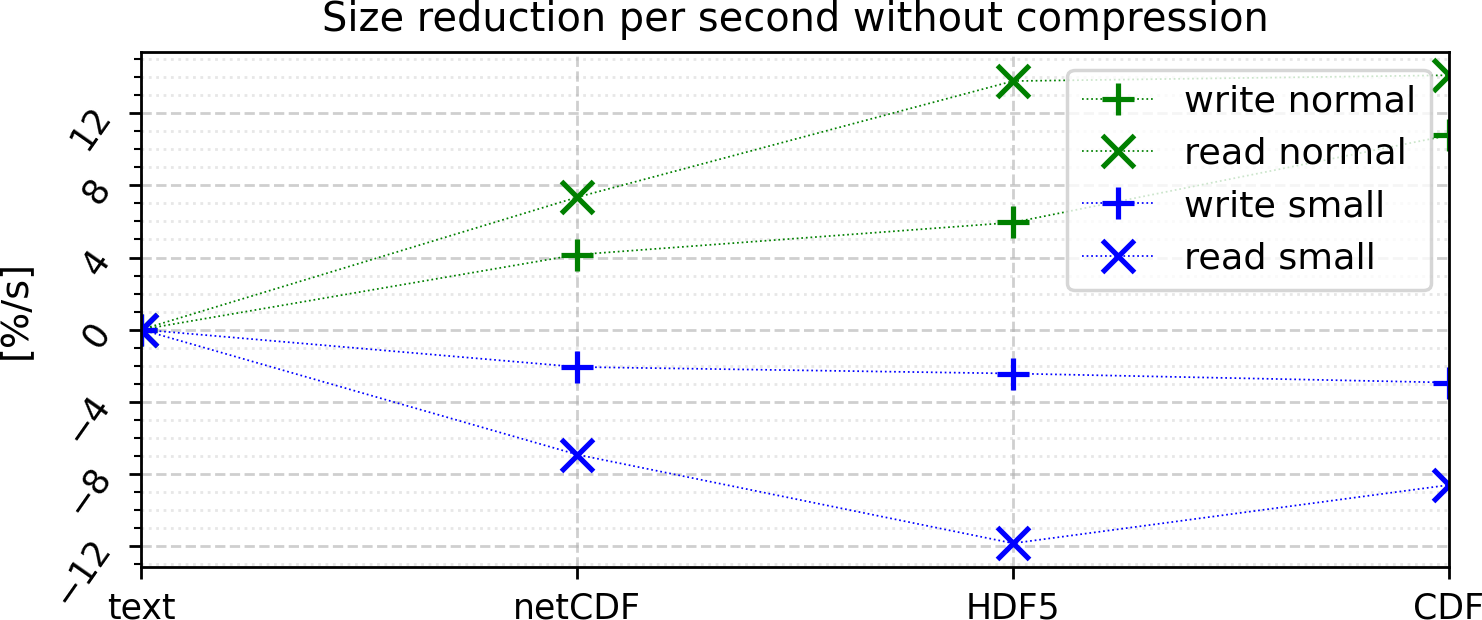
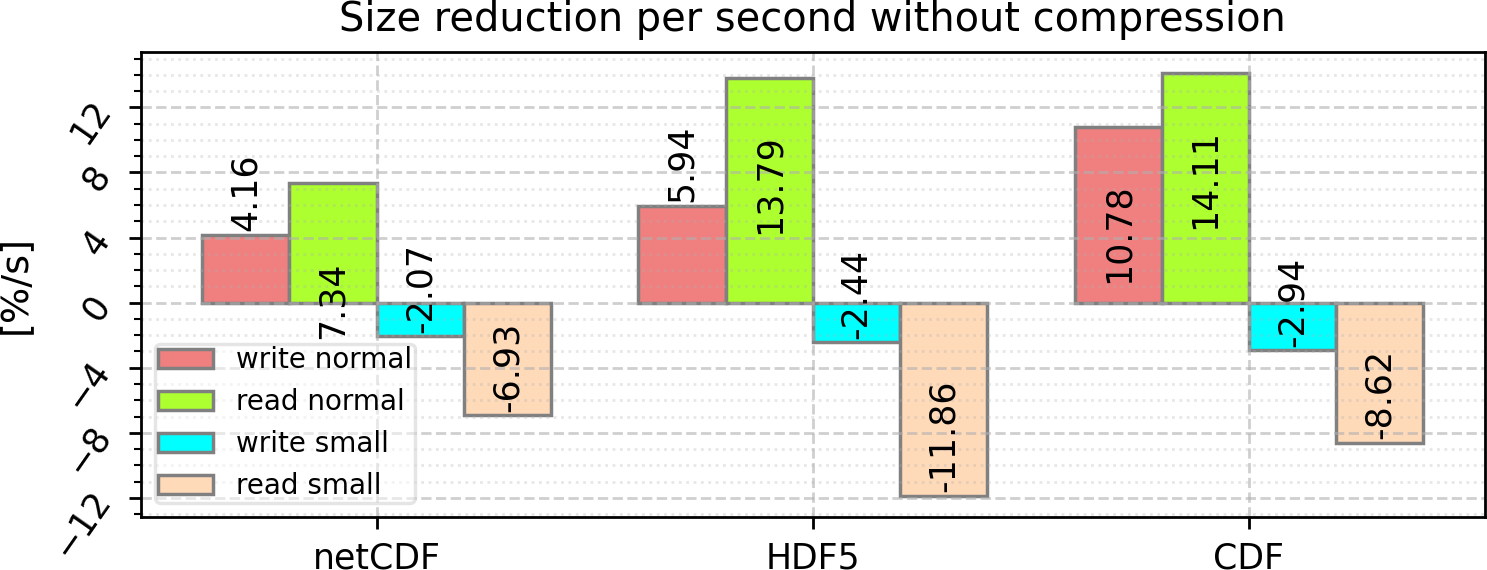
Improved graphs.

diff --git a/result_analysis/plot.py b/result_analysis/plot.py
@@ -6,26 +6,58 @@ np.set_printoptions(precision=3, suppress=True)
 #plt.rc('font', size=16)
 #plt.rc('legend', fontsize=10)
 
-colors = ['green','green','blue','blue']#['green','blue']#
+def autolabel(rects, ax, data_max):
+    """Attach a text label above each bar in *rects*, displaying its height."""
+    for rect in rects:
+        height = rect.get_height()
+        h_fmt = '{:.2f}'
+        rot = 90
+        offst = (0, 1)
+        if (height > 50):
+            h_fmt = '{:.1f}'
+
+        if (height > data_max/2):
+            offst = (0, -45)
+        ax.annotate(h_fmt.format(height),
+                    xy=(rect.get_x() + rect.get_width() / 2, height),
+                    xytext=offst,  # 3 points vertical offset
+                    textcoords="offset points",
+                    ha='center', va='bottom', fontsize=10, rotation = rot)
+
+colors = ['lightcoral','greenyellow','cyan','peachpuff']#['green','blue']#
 markers = ["+", "x"]#["+", "+", "x", "x"]#
-def plot_(labels, data, markers, colors, label_names, filename, ylabel, title, limit_y = True, figsize = [6.25,2.8], linestyle = ":"):
+def plot_(labels, data, markers, colors, label_names, filename, ylabel, title, limit_y = True, figsize = [6.25,2.6], linestyle = ":"):
     fig = plt.figure(tight_layout = True, dpi = 250, figsize=figsize)
 
 
-    print(filename)
+    x = np.arange(len(labels))
+    width = 0.2
+    print(labels, x)
+    ax = plt.gca()
+    data_max = np.nanmax(np.array(data))
+    print(data_max)
     
     for i in range(0, len(data)):
         print(label_names[i], data[i])
         #data[i] = data[i][np.logical_not(np.isnan(data[i]))]
-        plt.plot(labels, data[i], marker = markers[i%2], color=colors[i], label = label_names[i], linestyle=linestyle, markersize=9,lw=0.5,mew=1.5)
+        #plt.plot(labels, data[i], marker = markers[i%2], color=colors[i], label = label_names[i], linestyle=linestyle, markersize=9, lw=0, mew=1.5)
+        x_pos = x + width*(i) - (width*len(data))/2 + width/2 #+ (width*len(labels)) #- (width/len(data))
+        #print(x_pos)#, width*(i+1), (width*len(data))/2)
+        data[i][data[i] == 0] = np.nan
+        rects = plt.bar(x_pos, data[i], width, label = label_names[i], color=colors[i], edgecolor="gray", linewidth = 1)#,align='edge')
+        autolabel(rects, ax, data_max)
     print("-----------------------------")
-    plt.legend(fontsize=10.5)
+    plt.legend(fontsize=8, borderpad=0.1, framealpha=0.5)
     plt.ylabel(ylabel, fontsize=11)
     plt.title(title,fontsize=11.5)
-    ax = plt.gca()
     if limit_y:
         ax.set_ylim(ymin=0)
-    ax.set_xlim(xmin=0, xmax=len(labels)-1)
+    #ax.set_xlim(xmin=0, xmax=len(labels)-1)
+    #ax.set_xticklabels(labels)
+
+    ax.xaxis.set_major_locator(ticker.FixedLocator(x))
+    ax.xaxis.set_major_formatter(ticker.FixedFormatter(labels))
+    
     ax.yaxis.grid(which='minor', alpha=0.3, linestyle=':')
     ax.grid(which='major', alpha=0.6, linestyle='--')
     ax.yaxis.set_major_locator(ticker.MaxNLocator(nbins=8))
@@ -134,6 +166,8 @@ data = np.array([
     np.concatenate(((100*((-d.small_uncompressed_sz[0]+d.small_uncompressed_sz[0][0])/d.small_uncompressed_sz[0][0]))/(d.small_uncompressed_ram[1]),(100*((-d.small_compressed_sz[0]+d.small_uncompressed_sz[0][0])/d.small_uncompressed_sz[0][0]))/d.small_compressed_ram[1])),
 ])
 #data = 1 / data
+
+
 for i in range(0, len(data)):
     data[i][np.isinf(np.abs(data[i]))] = 0
     data[i][np.isnan(np.abs(data[i]))] = np.nan
@@ -160,7 +194,9 @@ for i in range(0, len(data)):
 colors = ['green','blue','red','black']#['green','blue']#
 markers = ["+", "x"]#["+", "+", "x", "x"]#
 
-plot_(d.all_labels, data, markers, colors, label_names, '9_2_rps.png', "[%/s]", "Size reduction per second with compression - lossless", False, [12,4], "")
+plot_(d.all_labels, data, markers, colors, label_names, '9_2_rps.png', "[%/s]", "Size reduction per second with compression - lossy", False, [12,4], "")
+
+
 
 """data = [
     d.normal_uncompressed_ssd[0]/d.normal_uncompressed_ram[0],
